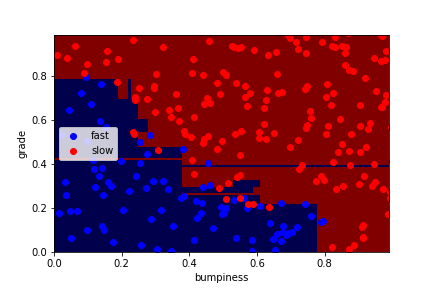
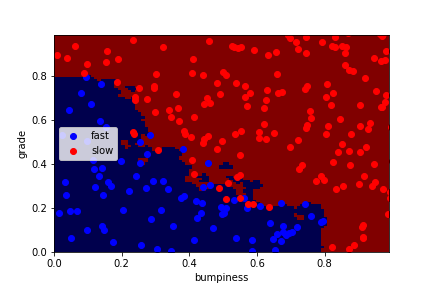
2 algo used
better accuracy

diff --git a/choose_your_own/your_algorithm.py b/choose_your_own/your_algorithm.py
@@ -3,6 +3,7 @@
 import matplotlib.pyplot as plt
 from prep_terrain_data import makeTerrainData
 from class_vis import prettyPicture
+import numpy as np
 
 features_train, labels_train, features_test, labels_test = makeTerrainData()
 
@@ -30,3 +31,25 @@ plt.show()
 
 ### your code here!  name your classifier object clf if you want the 
 ### visualization code (prettyPicture) to show you the decision boundary
+
+# loading library
+from sklearn.neighbors import KNeighborsClassifier
+clf = KNeighborsClassifier(n_neighbors=1, weights = 'distance', algorithm='auto' )
+clf = clf.fit(features_train, labels_train) 
+pred = clf.predict(features_test)
+
+acc = clf.score(features_test, labels_test)
+
+print("Accuracy = ",acc)
+
+
+from sklearn.ensemble import RandomForestClassifier
+clf1 = RandomForestClassifier()
+clf1.fit(features_train, labels_train)
+print("acc: ", clf1.score(features_test, labels_test))
+
+
+try:
+    prettyPicture(clf, features_test, labels_test)
+except NameError:
+    pass

diff --git a/tools/email_preprocess.py b/tools/email_preprocess.py
@@ -54,7 +54,7 @@ def preprocess(words_file = "../tools/word_data.pkl", authors_file="../tools/ema
     ### feature selection, because text is super high dimensional and 
     ### can be really computationally chewy as a result
     #selector = SelectPercentile(f_classif, percentile=10)
-    selector = SelectPercentile(f_classif, percentile=1) 
+    selector = SelectPercentile(f_classif, percentile=10) 
     # Changed the value of percentile from 10 to 1 for feature engineerint
     selector.fit(features_train_transformed, labels_train)
     features_train_transformed = selector.transform(features_train_transformed).toarray()
